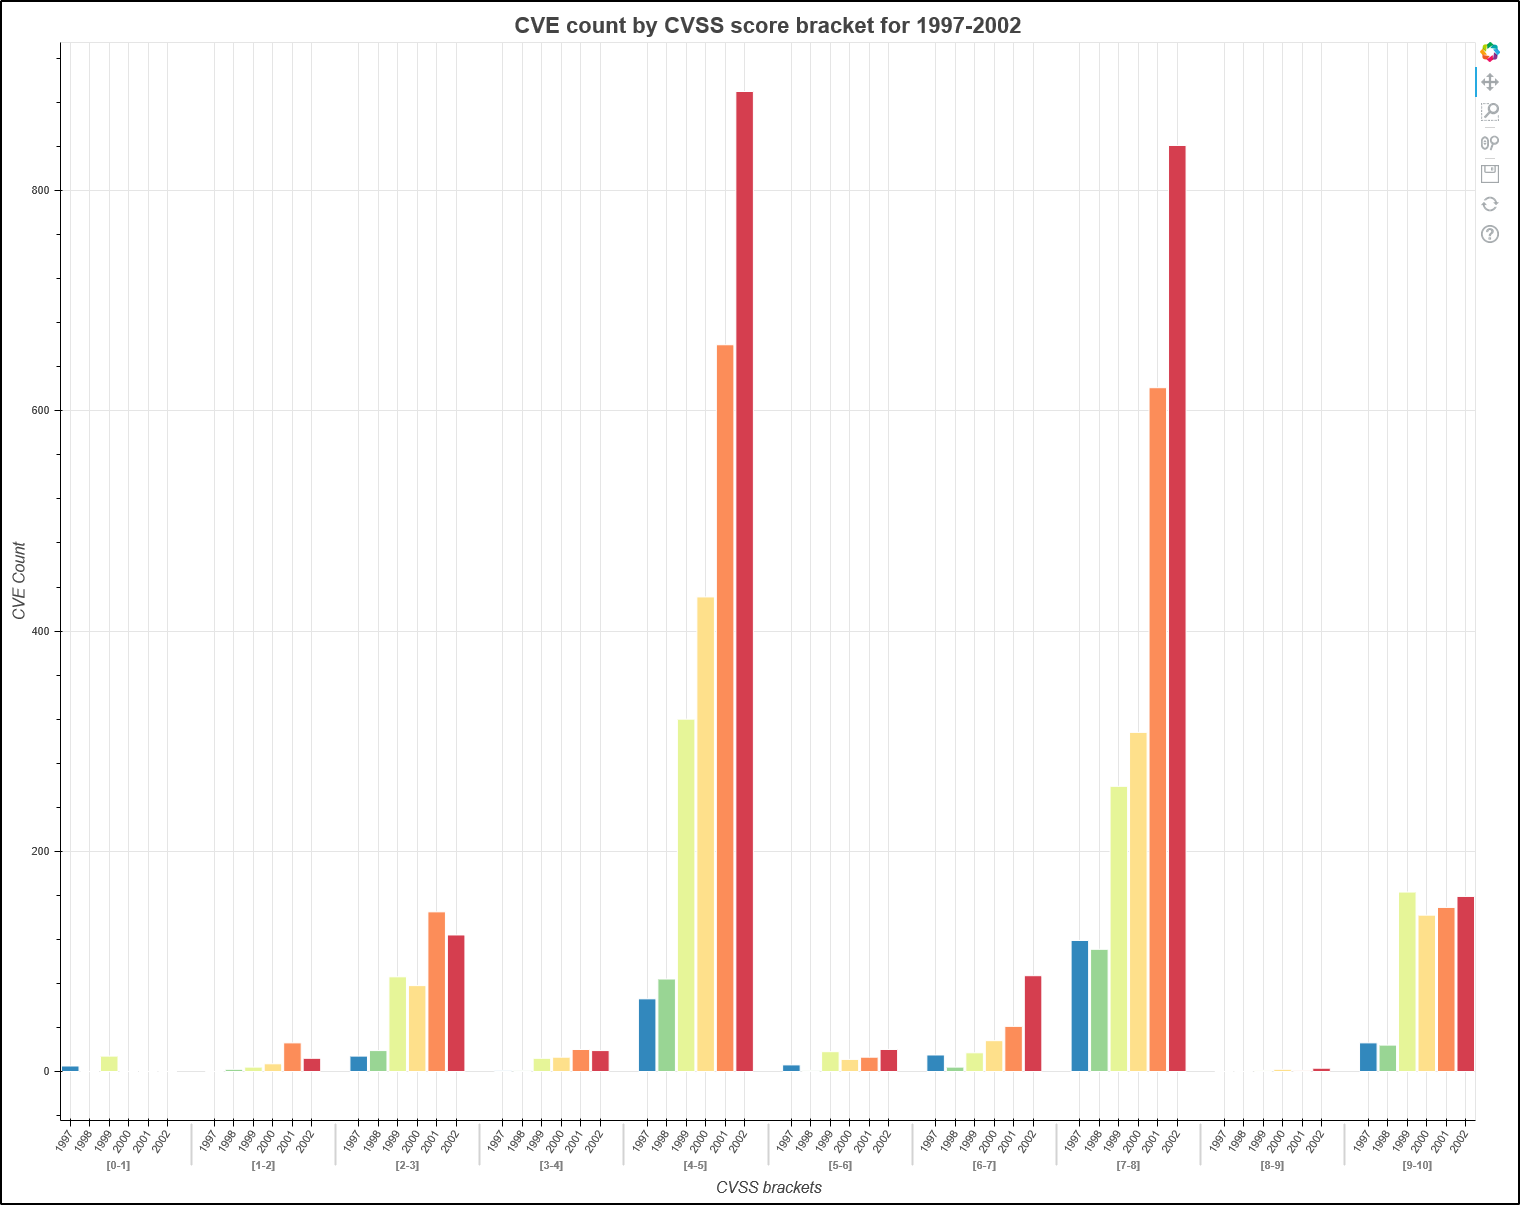
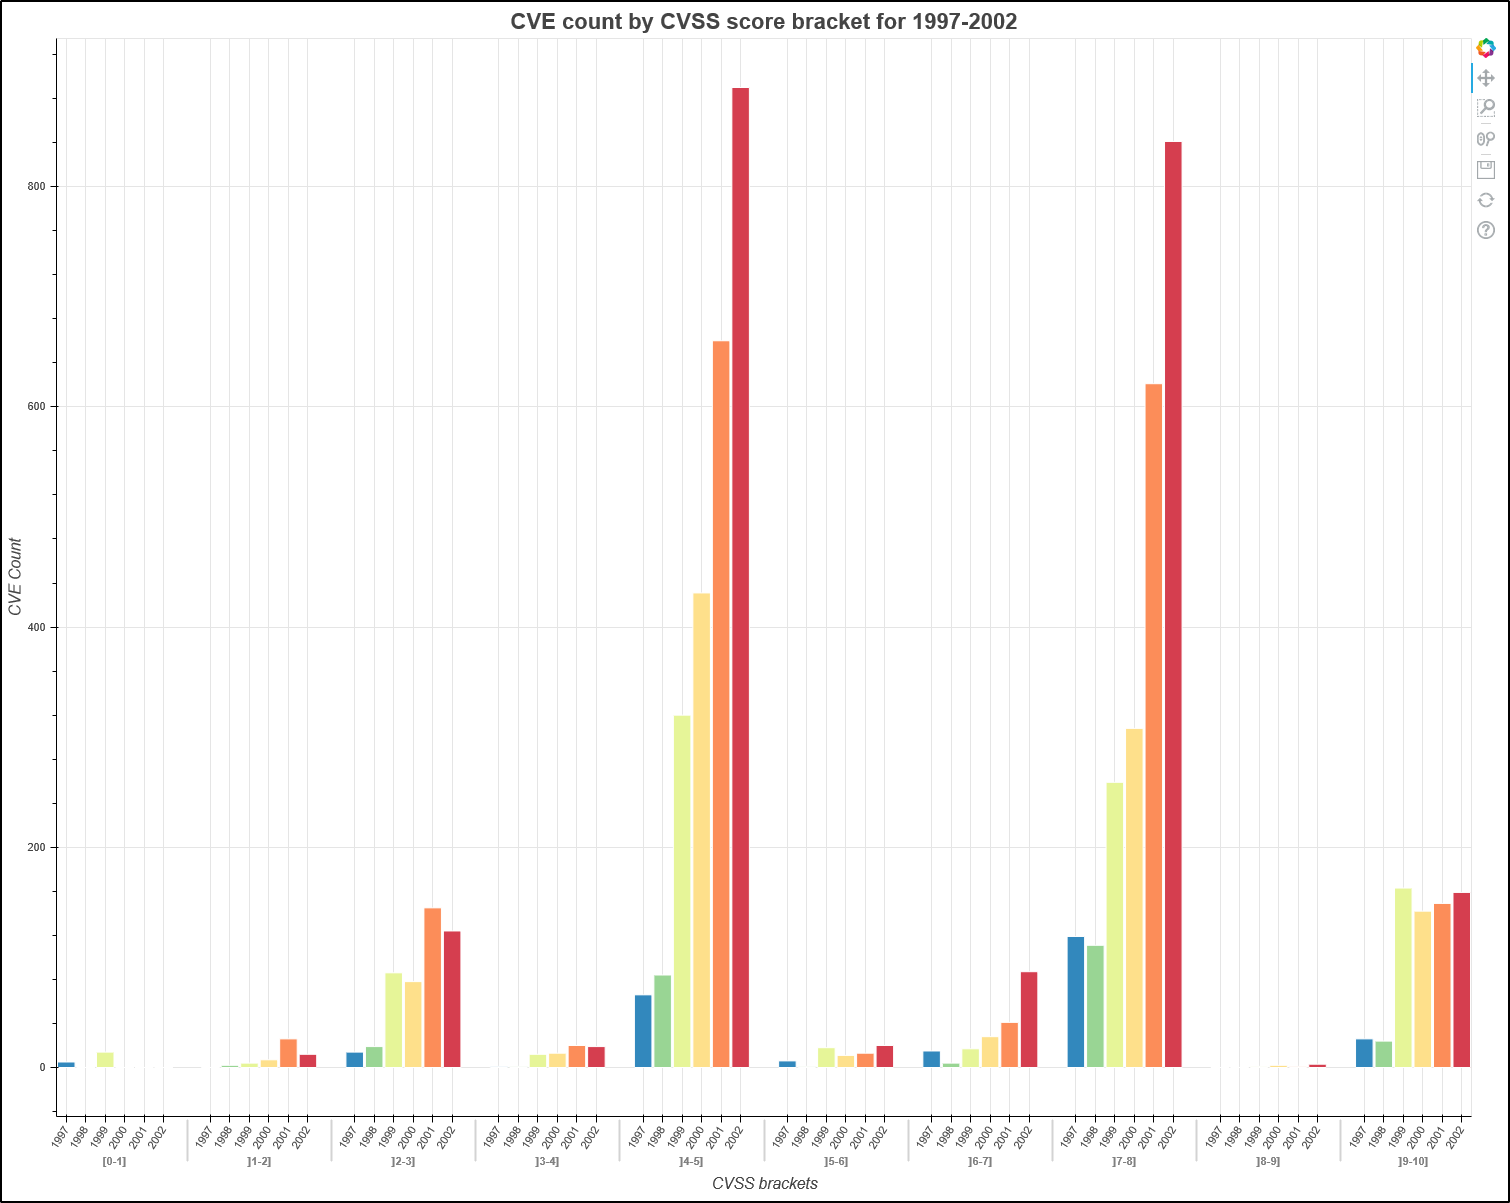
xlabel notation fix + plot descr in readme
[x-y] didn't make sense, it must be ]x-y]

diff --git a/chartFunctions.py b/chartFunctions.py
@@ -103,7 +103,7 @@ def bar_chart_CVE_count_by_CVSS_score_for_years(JSON_CVE_DATA,lst_years):
     lst_data_for_chosen_years = []
     for year in lst_years:
         lst_data_for_chosen_years.append(DF.getCVSSCountBracketsByYear(DF.getCVSSbyYear(lst_pubDate_and_cvss,year)))
-    lbl_cvssBrackets = ['[0-1]','[1-2]','[2-3]','[3-4]','[4-5]','[5-6]','[6-7]','[7-8]','[8-9]','[9-10]']
+    lbl_cvssBrackets = ['[0-1]',']1-2]',']2-3]',']3-4]',']4-5]',']5-6]',']6-7]',']7-8]',']8-9]',']9-10]']
     
     dataForChosenYears = {}
     dataForChosenYears['brackets'] = lbl_cvssBrackets
@@ -114,7 +114,7 @@ def bar_chart_CVE_count_by_CVSS_score_for_years(JSON_CVE_DATA,lst_years):
     
     x = [(cvssBracket,year) for cvssBracket in lbl_cvssBrackets for year in lst_years]
     counts = sum(zip(*lst_data_for_chosen_years),())
-    
+
     source = ColumnDataSource(data=dict(x=x,counts=counts))
     x_label = 'CVSS brackets'
     y_label = 'CVE Count'

diff --git a/README.md b/README.md
@@ -67,7 +67,21 @@
 
 ## Plots
 
-The first plot aims to graphically present the dataset 
+### I
+
+The first plot aims give a general overview of the CVEs of our datapool: we are counting the CVE based on their *CVE ID* for 1997-2002
+
+### II
+
+The second plot goes for a more nuanced direction. We are calculating the average CVSS score for each month in a given year. This is then plotted as a line chart, for the same time range as plot I: 1997 - 2002. The basis for the time is the publication date of the CVE, which in many cases has a different year than the CVE ID.
+
+### III
+
+For the third plot, we are counting the number of CVEs by year, based on the publication date of the CVE. The basis of this calculation are specific CVSS score brackets: [0-1], ]1-2],…,]9-10]. The ‘[’ & ’]‘ need to interpreted mathematically, in the sense that a CVSS score of 1 is included in the bracket [0-1]. A CVSS score of 1.1 for example will fall into the next bracket.
+
+The surprising results of this plot, bracket ]8-9] has almost no results, is a nice find.
+
+
 
 ## Addenda
 
